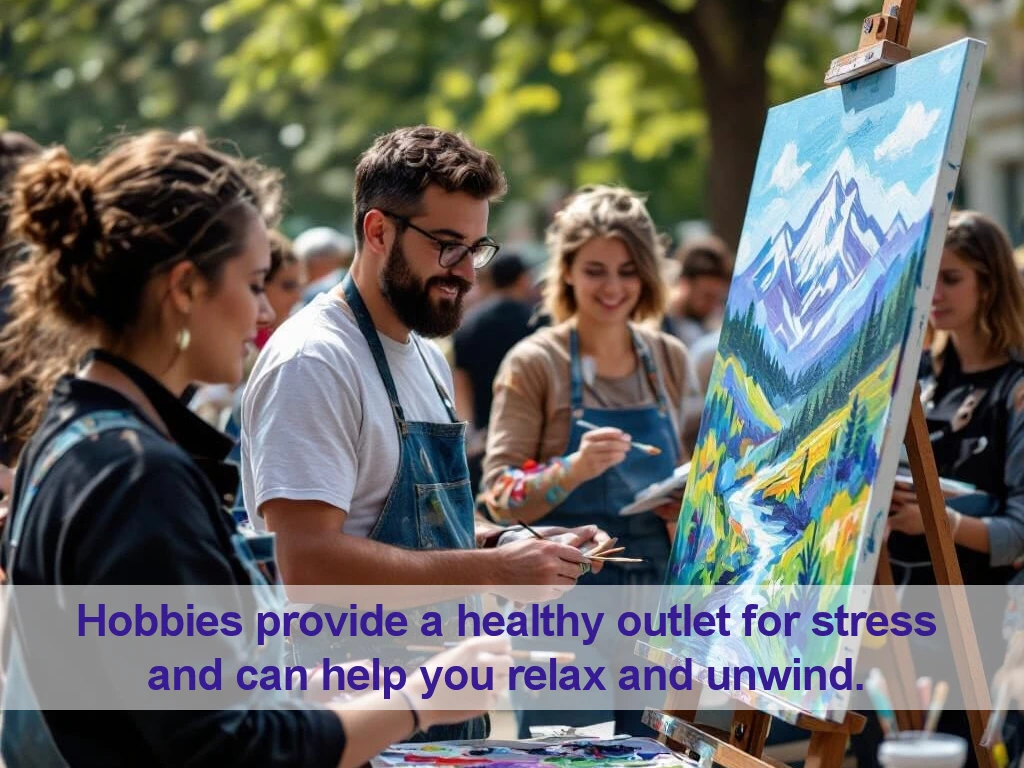
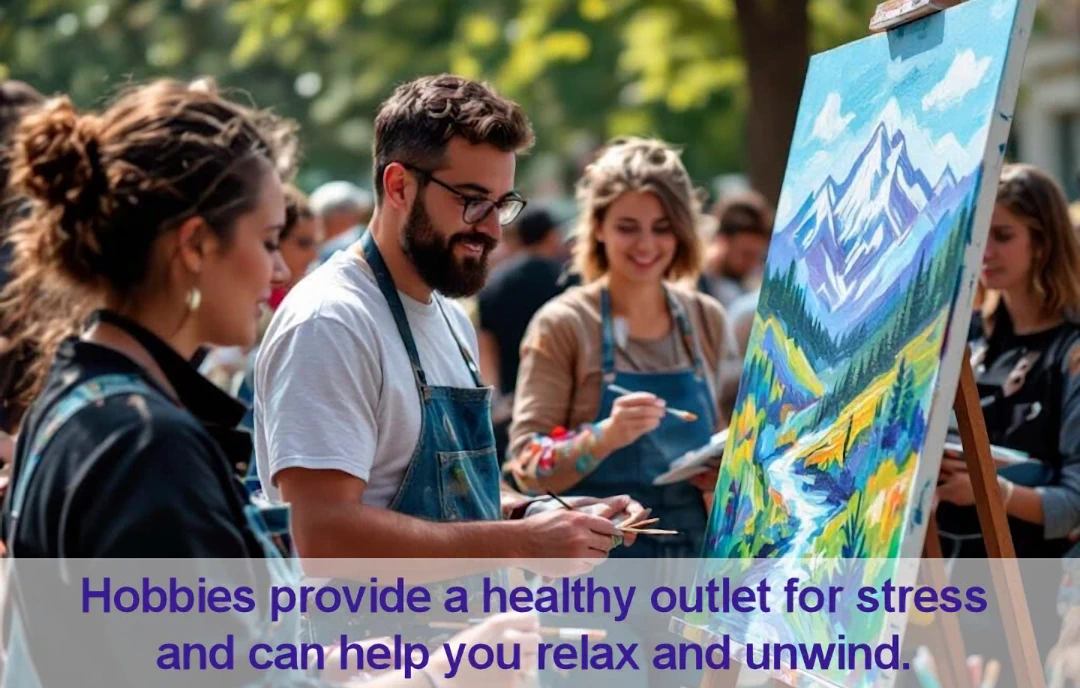
Adjust carousel images and slide scale for best fit on design

diff --git a/index.html b/index.html
@@ -27,25 +27,26 @@
 </head>
 <body>
   <header>
-    <h1 id="text-logo" class="text-center my-4">Pastimez</h1>
+    <h1 id="text-logo" class="text-center">Pastimez</h1>
   </header>
 
   <!-- Static Image Carousel -->
-   <div id="carousel-indicators" class="carousel slide">
-    <div class="static-carousel-indicators"> <!-- flex-->
+  <div class="d-flex justify-content-center">
+   <div id="carousel-indicators" class="carousel slide w-75" data-bs-ride="carousel">
+    <div class="carousel-indicators static-carousel-indicators">
       <button type="button" data-bs-target="#carousel-indicators" data-bs-slide-to="0" class="active" aria-current="true" aria-label="Slide 1"></button>
-    <button type="button" data-bs-target="#carousel-indicators" data-bs-slide-to="1" aria-label="Slide 2"></button>
-    <button type="button" data-bs-target="#carousel-indicators" data-bs-slide-to="2" aria-label="Slide 3"></button>
+      <button type="button" data-bs-target="#carousel-indicators" data-bs-slide-to="1" aria-label="Slide 2"></button>
+      <button type="button" data-bs-target="#carousel-indicators" data-bs-slide-to="2" aria-label="Slide 3"></button>
     </div>
         <div class="carousel-inner">
           <div class="carousel-item active">
-            <img src="assets/images/carousel-images/art-club.webp" class="d-block w-100" alt="Hobbies provide a healthy outlet for stress and can help you relax and unwind">
+            <img src="assets/images/carousel-images/art-club.webp" class="carousel-hobbies " alt="Hobbies provide a healthy outlet for stress and can help you relax and unwind">
           </div>
           <div class="carousel-item">
-            <img src="assets/images/carousel-images/running-club.webp" class="d-block w-100" alt="Engaging in enjoyable activities releases endorphins, which have mood-boosting effects">
+            <img src="assets/images/carousel-images/running-club.webp" class="carousel-hobbies " alt="Engaging in enjoyable activities releases endorphins, which have mood-boosting effects">
           </div>
           <div class="carousel-item">
-            <img src="assets/images/carousel-images/taichi-club.webp" class="d-block w-100" alt="Mastering a new skill or excelling in a hobby can boost self-confidence and self-worth">
+            <img src="assets/images/carousel-images/taichi-club.webp" class="carousel-hobbies " alt="Mastering a new skill or excelling in a hobby can boost self-confidence and self-worth">
           </div>
         </div>
       <button class="carousel-control-prev" type="button" data-bs-target="#carousel-indicators" data-bs-slide="prev">
@@ -57,9 +58,11 @@
         <span class="visually-hidden">Next</span>
       </button>
     </div>
+  </div>
 
   <!-- Main Content Area -->
   <main class="user-search">
+    <h2 class="heading-2 text-center">Find a new hobby</h2>
     <!-- Search Form -->
     <form id="searchForm" class="mb-4">
       <div class="mb-3">
@@ -107,11 +110,13 @@
     </form>
 
     <!-- Google Map -->
-    <div id="map" style="height: 400px; width: 100%;" class="mb-4"></div>
+  <div class="d-flex justify-content-center">
+    <div id="map" style="height: 500px; width: 75%;" class="hobby-map"></div>
+  </div>
 
     <!-- Dynamic Results Carousel -->
-    <div id="resultsCarouselWrapper" class="my-4">
-      <h2>Nearby Clubs</h2>
+    <div id="resultsCarouselWrapper" class="hobby-map">
+      <h2 class="heading-2 text-center">Nearby Clubs</h2>
       <div id="resultsCarousel" class="carousel slide" data-bs-ride="carousel">
         <div class="carousel-inner" id="carouselInner"></div>
         <button class="carousel-control-prev" type="button" data-bs-target="#resultsCarousel" data-bs-slide="prev">

diff --git a/css/style.css b/css/style.css
@@ -3,17 +3,27 @@ body {
   padding: 20px;
 }
 
-#carousel-hobbies {
-  height: 300px;
+.carousel-hobbies {
   width: 100%;
 }
 
-.static-carousel-indicators {
-  flex: auto;
+.heading-2 {
+  padding: 20px;
+  align-self: center;
 }
 
-form {
+.static-carousel-indicators {
+  background-color: #9d6fbc;
+  display: flex;
+  justify-content: center;
+  gap: 10px; /* space between indicators */
+  margin-top: 1rem;
+  position: static; /* prevent default absolute positioning */
+}
+
+.searchForm {
   margin-bottom: 20px;
+  padding: 20px;
 }
 
 #map {
@@ -25,12 +35,12 @@ form {
 /* Result card style */
 .result-card {
   gap: 1rem;
-  border: 1px solid #ddd;
+  border: 1px solid #9d6fbc;
   border-radius: 8px;
   padding: 1rem;
   max-width: 700px;
   margin: 0 auto;
-  background: white;
+  background: rgb(241, 241, 241);
   box-shadow: 0 2px 6px rgb(0 0 0 / 0.1);
 }
 
@@ -78,9 +88,17 @@ form {
   margin-bottom: 0.75rem;
 }
 
+.carousel-control-prev-icon {
+  background-color: #9d6fbc;
+}
+
+.carousel-control-next-icon {
+  background-color: #9d6fbc;
+}
+
 /* Bootstrap button override for smaller size and black background */
 .btn-dark.btn-sm {
-  background-color: #ffffff;
+  background-color: #9d6fbc;
   border-color: #000;
   font-size: 0.85rem;
   padding: 0.25rem 0.6rem;
@@ -90,4 +108,8 @@ form {
 .btn-dark.btn-sm:focus {
   background-color: #222;
   border-color: #222;
+}
+
+.user-search {
+  padding-top: 20px;
 }

diff --git a/js/script.js b/js/script.js
@@ -94,14 +94,14 @@ document.addEventListener("DOMContentLoaded", () => {
             ? place.photos[0].getUrl({ maxWidth: 300, maxHeight: 200 })
             : "https://via.placeholder.com/300x200?text=No+Image";
 
-        // Example category badge text and color based on keyword
+        // Example category badge text based on keyword
         let category = "Hobby";
         let badgeColor = "bg-primary";
 
         if (/sport|fitness|swimming|ice skating/i.test(keyword)) {
-          category = "Sports Spot";
+          category = "Sports & Fitness";
         } else if (/craft|model|jewellery|cooking/i.test(keyword)) {
-          category = "Craft Corner";
+          category = "Crafting & Creativity";
         }
 
         const card = `
